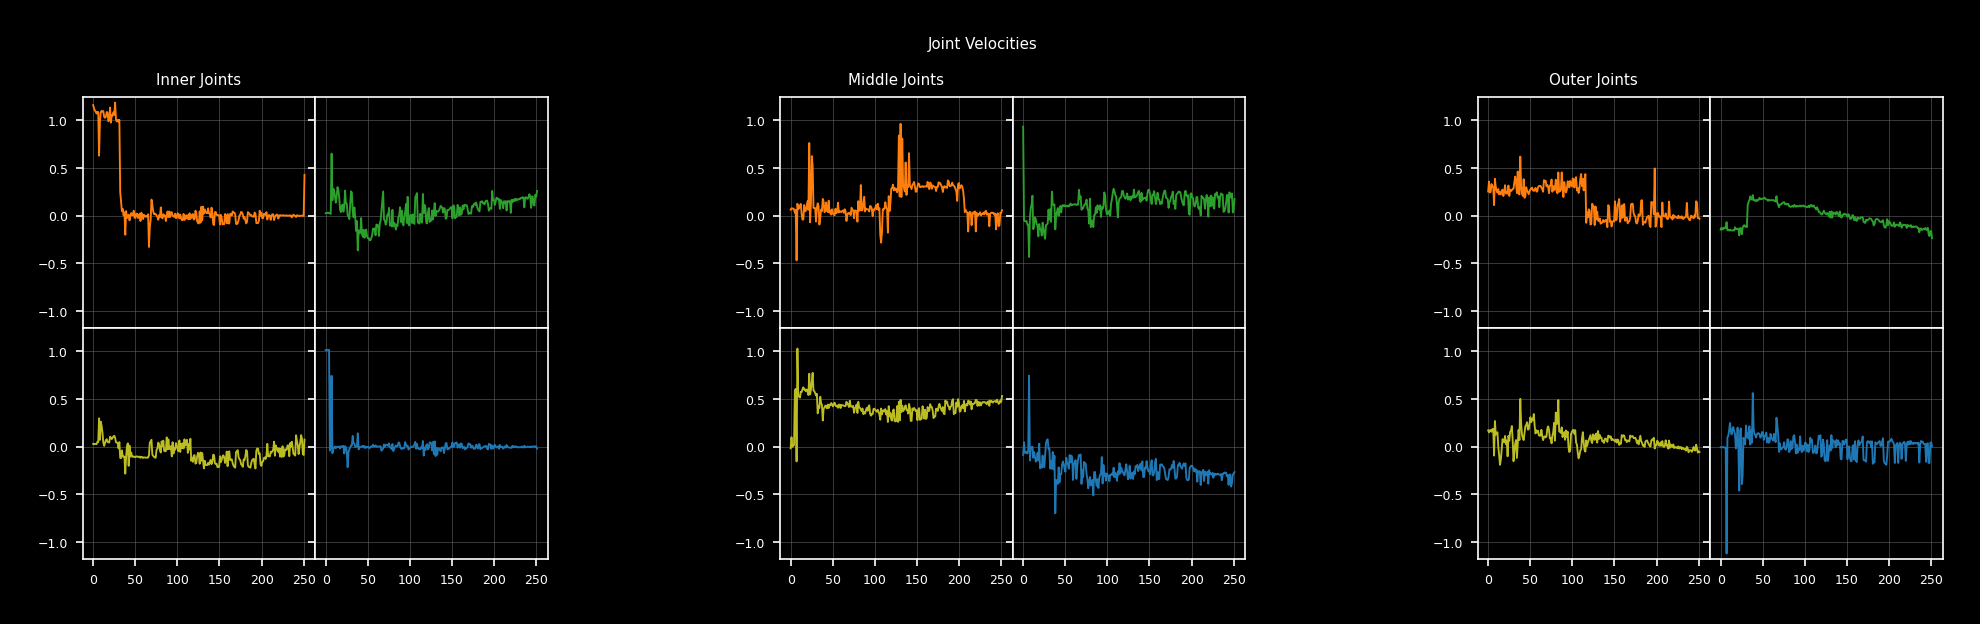
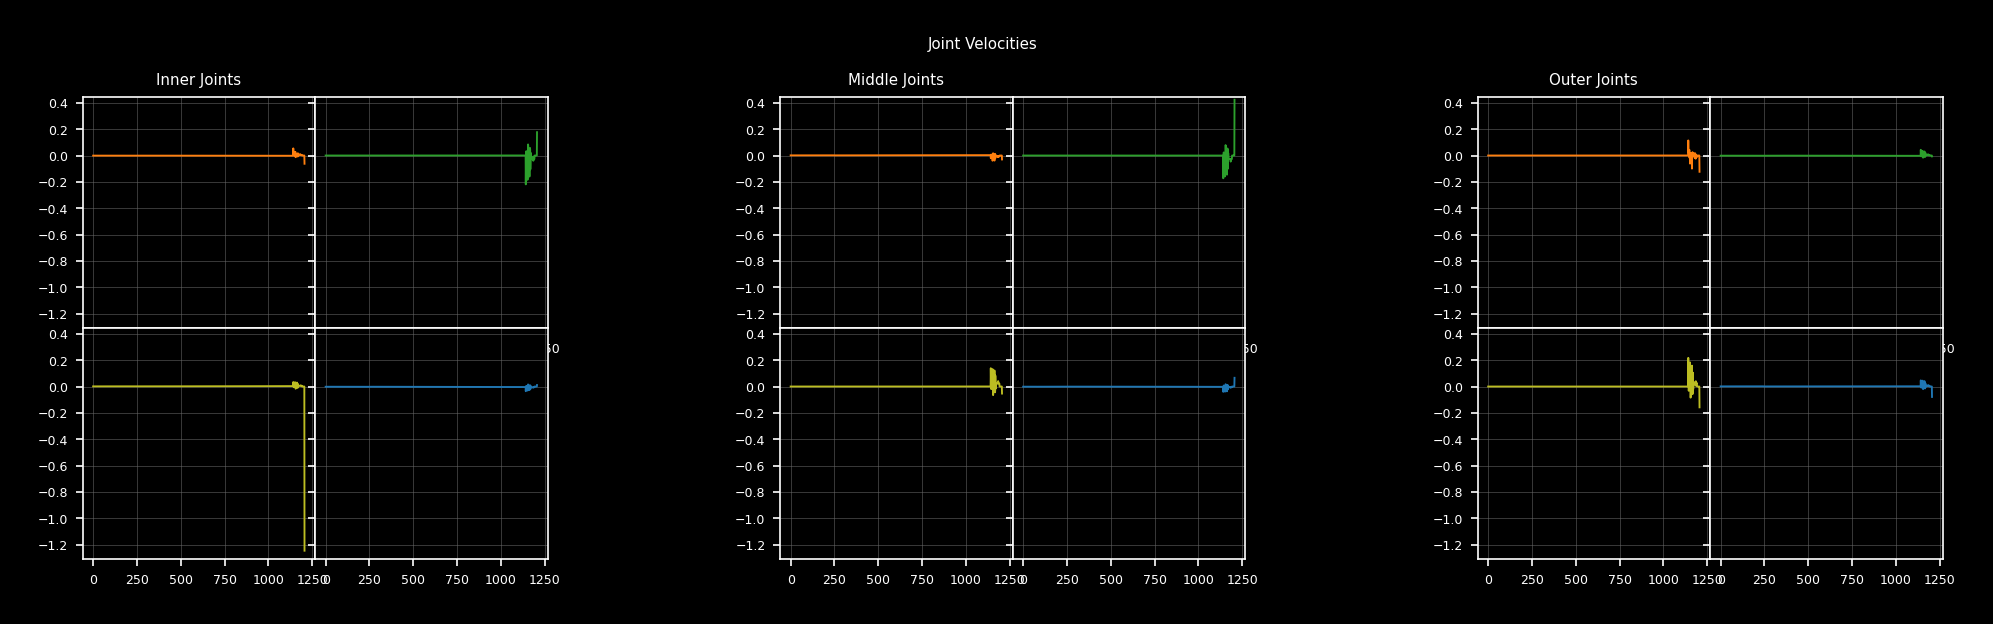
addition kwargs for episode

diff --git a/driver.py b/driver.py
@@ -60,11 +60,11 @@ class Driver:
     def test(self):
         model = self.load_model("neat_model")
         agent = Agent(model, 24, 12)
-        self.episode(agent, eval=True)
+        self.episode(agent, terminate=False, eval=True, max_steps=0)
+        print('Done!')
 
-    def episode(self, agent: Agent, logging=False, eval=False) -> None:
+    def episode(self, agent: Agent, terminate: bool = True, max_steps: float = 10192, logging=False, eval=False) -> None:
         i = 0
-        max_steps = 10192
         done = False
         rewards = []
         observation = self.env.reset()
@@ -72,7 +72,7 @@ class Driver:
         joint_pos, joint_vel, joint_torques, body_pos = [], [], [], []
 
         try:
-            while not done and i < max_steps:
+            while not terminate or (not done and (not max_steps or i < max_steps)):
                 observation, reward, done, info = self.env.step(controls)
                 rewards.append(reward)
                 if logging:

diff --git a/spider_bot/environments.py b/spider_bot/environments.py
@@ -61,9 +61,9 @@ class SpiderBotSimulator(Env):
         if self.gui:
             self.update_camera()
         
-        self.spider.set_joint_velocities(self.spider.outer_joints, controls[:4])
-        self.spider.set_joint_velocities(self.spider.middle_joints, controls[4:8])
-        self.spider.set_joint_velocities(self.spider.inner_joints, controls[8:])
+        #self.spider.set_joint_velocities(self.spider.outer_joints, controls[:4])
+        #self.spider.set_joint_velocities(self.spider.middle_joints, controls[4:8])
+        #self.spider.set_joint_velocities(self.spider.inner_joints, controls[8:])
         
         self.last_position = self.curr_position
         pb.stepSimulation()

diff --git a/spider_bot/spider_bot_model.py b/spider_bot/spider_bot_model.py
@@ -7,7 +7,7 @@ import pybullet as pb
 import numpy as np
 
 class SpiderBot:
-    def __init__(self, model_path: str, initial_pos: tuple = (0, 0, 0.2625)) -> None:
+    def __init__(self, model_path: str, initial_pos: tuple = (0, 0, 0.1625)) -> None:
         self.model_path = model_path
         self.id = pb.loadURDF(self.model_path, initial_pos, flags=pb.URDF_USE_SELF_COLLISION)
         self.num_joints = pb.getNumJoints(self.id)
